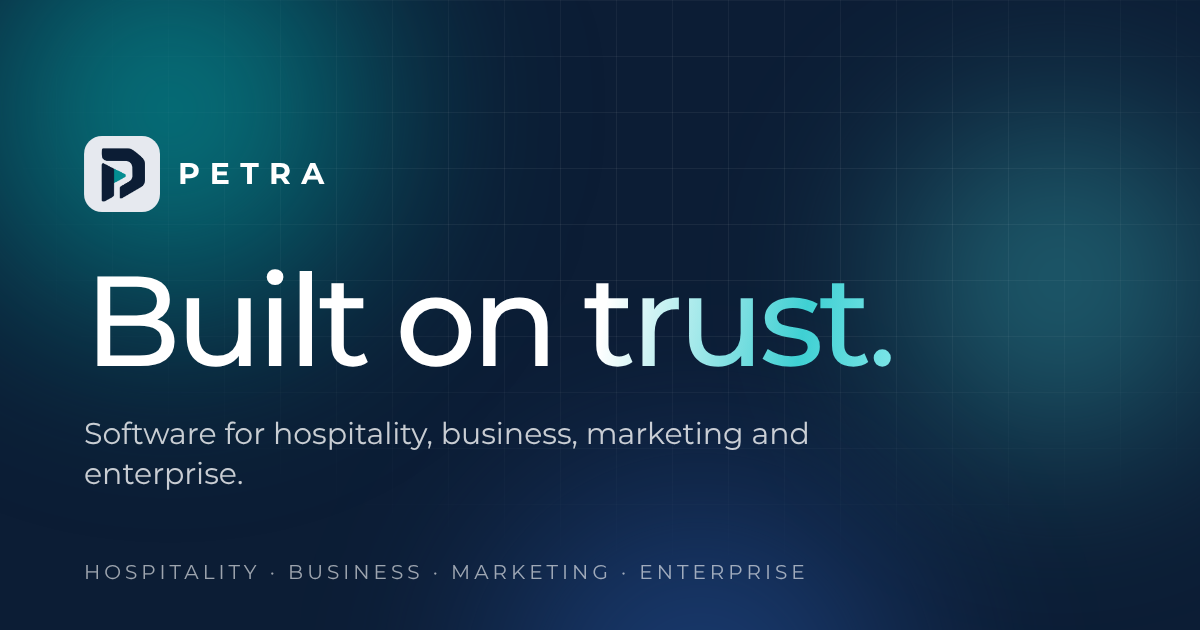
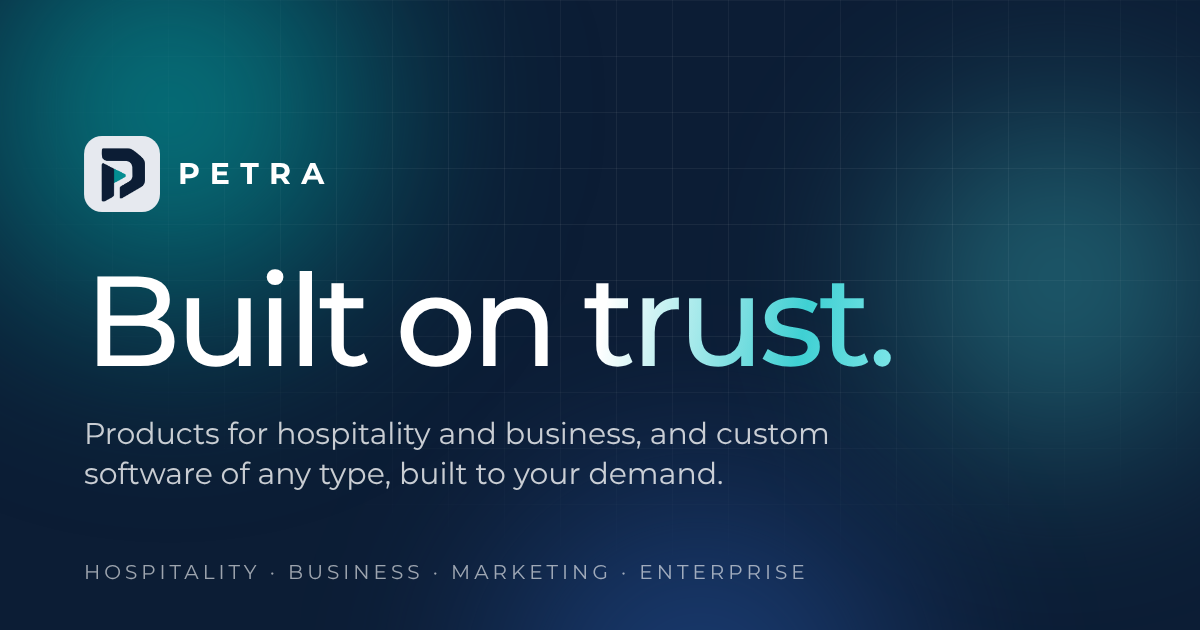
Position PETRA as building any software on demand; drop "Planned" everywhere
Add a "Custom software, any type" band, hero and footer copy, form option
and share image text for software built to client demand. Replace every
"Planned" label (Petra Core, its links, modules, deployment extras and
product features) with "Built on request"; the planned status is removed
and a test fails if the word comes back.

Claude-Session: https://claude.ai/code/session_01WUwowxCK4YvBFCuUnA97SB

Changed region(s): [[0.0617, 0.6635, 0.6783, 0.7841]]

diff --git a/src/content/company.ts b/src/content/company.ts
@@ -13,11 +13,11 @@ export const deployment = {
     { n: "03", title: "Petra products", items: ["PMS", "POS", "DMS"] },
   ],
   traits: [
-    { title: "Local network", text: "Terminals connect to the Petra server over the property LAN.", planned: false },
-    { title: "Fast local response", text: "Requests stay inside the building instead of crossing the internet to a remote data centre.", planned: false },
-    { title: "Centralised local data", text: "One database on the Petra server, stored on hardware you own.", planned: false },
-    { title: "Windows installer", text: "PetraPMS packaged as a Windows installer for on-site setup.", planned: true },
-    { title: "Larger deployments", text: "PostgreSQL for multi-property or cloud-hosted installations.", planned: true },
+    { title: "Local network", text: "Terminals connect to the Petra server over the property LAN.", onRequest: false },
+    { title: "Fast local response", text: "Requests stay inside the building instead of crossing the internet to a remote data centre.", onRequest: false },
+    { title: "Centralised local data", text: "One database on the Petra server, stored on hardware you own.", onRequest: false },
+    { title: "Windows installer", text: "PetraPMS packaged as a Windows installer for on-site setup.", onRequest: true },
+    { title: "Larger deployments", text: "PostgreSQL for multi-property or cloud-hosted installations.", onRequest: true },
   ],
   note: "The model above is PetraPMS's design. Deployment for PetraPOS and PetraDMS, backups and remote access are agreed per project during Discover.",
 } as const;
@@ -26,7 +26,7 @@ export const core = {
   name: "Petra Core",
   sub: "Shared data · sign-in · reports",
   role: "One data layer for all the products: shared customers and guests, one sign-in with roles, and reports across the business.",
-  status: "planned",
+  status: "onrequest",
 } as const;
 
 /** Modules PETRA builds for a client on request (in development now). Not off-the-shelf releases. */
@@ -91,9 +91,16 @@ export const layers = [
   },
 ] as const;
 
+/** The open door: PETRA builds any type of software to a client's requirement. */
+export const customBuild = {
+  title: "Custom software, any type",
+  line: "If you need it, we build it. Tell us the problem and we design, build, deploy and support the software for you.",
+  items: ["Any kind of software, to your requirement", "Scope and timeline agreed per project", "The same team designs, builds and supports it"],
+} as const;
+
 /** What "built on trust" means in practice. Only facts the company can stand behind. */
 export const trustPrinciples = [
-  { title: "Honest by default", text: "Every product, module and integration carries an honest status: available, preview, built on request or planned. We never show a feature as live before it is." },
+  { title: "Honest by default", text: "Every product, module and integration carries an honest status: available, preview or built on request. We never show something as live before it is." },
   { title: "Your data stays yours", text: "PetraPMS is designed to run on the property's own network, with its database on a server you control." },
   { title: "One accountable team", text: "The people who build the software also deploy and support it. No hand-offs, no ticket maze." },
   { title: "Support after go-live", text: "Staff training at handover, then three months of bug-fix support." },

diff --git a/tests/unit/content.test.ts b/tests/unit/content.test.ts
@@ -22,8 +22,8 @@ describe("honesty rules", () => {
     for (const p of load("products")) expect(p.status).not.toBe("available");
   });
 
-  it("every ecosystem link is planned (integrations do not ship yet)", () => {
-    for (const l of load("links")) expect(l.status).toBe("planned");
+  it("every ecosystem link is built on request (integrations do not ship yet)", () => {
+    for (const l of load("links")) expect(l.status).toBe("onrequest");
   });
 
   it("ids are unique within each collection", () => {
@@ -79,7 +79,7 @@ describe("ecosystem diagram data", () => {
   it("connects every product to the core, and nothing else is claimed as live", () => {
     const toCore = load("links").filter((l: { to: string }) => l.to === "core").map((l: { from: string }) => l.from);
     for (const code of productCodes) expect(toCore).toContain(code);
-    for (const l of load("links")) expect(l.status).toBe("planned");
+    for (const l of load("links")) expect(l.status).toBe("onrequest");
   });
   it("lists the eight modules built on request, none of them a current product name", () => {
     const names = [...modules.matchAll(/name: "(Petra\w+)", role:/g)].map((m) => m[1]);
@@ -87,5 +87,27 @@ describe("ecosystem diagram data", () => {
     expect([...modules.matchAll(/status: "onrequest" \}/g)].length).toBe(8);
     const productNames = load("products").map((p: { name: string }) => p.name);
     for (const n of names) expect(productNames).not.toContain(n);
+  });
+});
+
+describe("custom software positioning", () => {
+  const company = readFileSync("src/content/company.ts", "utf8");
+  it("states that any type of software is built on client demand", () => {
+    expect(company).toContain("export const customBuild");
+    expect(company).toContain("Any kind of software, to your requirement");
+  });
+  it("offers custom software as a form interest and keeps the sector list at four", () => {
+    expect(readFileSync("src/lib/inquiry.ts", "utf8")).toContain('"Custom software"');
+    const ids = [...company.matchAll(/^ {4}id: "(\w+)",$/gm)].map((m) => m[1]);
+    expect(ids).toHaveLength(5);
+  });
+});
+
+describe("status wording", () => {
+  it("never labels anything as planned", () => {
+    const files = ["src/content/company.ts", "src/content/schemas.ts", "src/components/ui/Chip.astro", "src/components/sections/Ecosystem.astro", "src/components/sections/Deployment.astro", "src/pages/ecosystem.astro", "src/pages/products/[slug].astro"];
+    for (const f of [...files, "src/content/data/links.json", "src/content/data/products.json", "src/content/data/reasons.json"]) {
+      expect(readFileSync(f, "utf8"), f).not.toMatch(/planned/i);
+    }
   });
 });

diff --git a/mockups/og.html b/mockups/og.html
@@ -9,5 +9,5 @@
 h1{margin-top:44px;font-size:128px;line-height:1;font-weight:500;letter-spacing:-.04em}h1 span{background:linear-gradient(100deg,#fff 10%,#3fd0d3 70%,#7fe6e8);-webkit-background-clip:text;color:transparent}
 p{margin-top:30px;font-size:30px;color:rgba(255,255,255,.78);max-width:860px;line-height:1.35}.t{position:absolute;left:84px;bottom:46px;font-size:20px;letter-spacing:.2em;color:rgba(255,255,255,.6);text-transform:uppercase}
 </style></head><body><div class="b b1"></div><div class="b b2"></div><div class="b b3"></div><div class="g"></div>
-<div class="c"><div class="brand"><img src="../public/brand/petra-mark.png" alt=""><b>PETRA</b></div><h1>Built on <span>trust.</span></h1><p>Software for hospitality, business, marketing and enterprise.</p></div>
+<div class="c"><div class="brand"><img src="../public/brand/petra-mark.png" alt=""><b>PETRA</b></div><h1>Built on <span>trust.</span></h1><p>Products for hospitality and business, and custom software of any type, built to your demand.</p></div>
 <div class="t">Hospitality · Business · Marketing · Enterprise</div></body></html>

diff --git a/src/content/schemas.ts b/src/content/schemas.ts
@@ -4,7 +4,7 @@ import { z } from "astro/zod";
  * Release status. Drives every status chip. Keep it honest.
  * onrequest: built for a client when they need it (and in development now); not an off-the-shelf release.
  */
-export const status = z.enum(["available", "preview", "planned", "onrequest"]);
+export const status = z.enum(["available", "preview", "onrequest"]);
 export type Status = z.infer<typeof status>;
 
 export const screenSource = z.enum(["illustrative", "prototype", "live"]);
@@ -19,7 +19,7 @@ export const productSchema = z.object({
   statusNote: z.string(),
   problem: z.string(),
   description: z.string(),
-  features: z.array(z.object({ title: z.string(), planned: z.boolean().default(false) })),
+  features: z.array(z.object({ title: z.string(), onRequest: z.boolean().default(false) })),
   workflow: z.array(z.string()),
   screenSource,
   /** Files in src/assets/products are named `<assetPrefix>-<view>-desktop.webp` and `-mobile.webp`. */

diff --git a/src/content/site.ts b/src/content/site.ts
@@ -4,7 +4,7 @@ export const site = {
   legalName: "PETRA Software Solutions",
   tagline: "Built on trust.",
   description:
-    "PETRA Software Solutions builds software for hospitality, business, marketing and enterprise in Bangladesh: PetraPMS, PetraPOS, PetraDMS, website and online store builds. Built on trust.",
+    "PETRA Software Solutions builds software in Bangladesh: products for hospitality and business, and custom software of any type built to client demand. Built on trust.",
   email: "petrabd@gmail.com",
   phone: "016-16154320",
   phoneHref: "+8801616154320",

diff --git a/src/lib/inquiry.ts b/src/lib/inquiry.ts
@@ -10,7 +10,7 @@ export const businessTypes = [
   "Something else",
 ] as const;
 
-export const interestOptions = ["PetraPMS", "PetraPOS", "PetraDMS", "Website Build", "E-commerce Build", "Marketing", "Enterprise / custom", "Not sure yet"] as const;
+export const interestOptions = ["PetraPMS", "PetraPOS", "PetraDMS", "Website Build", "E-commerce Build", "Marketing", "Custom software", "Not sure yet"] as const;
 
 export const limits = { name: 120, company: 160, email: 200, phone: 40, message: 4000 } as const;
 

diff --git a/README.md b/README.md
@@ -21,7 +21,7 @@ Node.js 20.9 or newer.
 | What | File |
 |---|---|
 | Company name, email, phone, Facebook link | `src/content/site.ts` |
-| Products, features, status (`preview`, `planned`, `available`) | `src/content/data/products.json` |
+| Products, features, status (`preview`, `onrequest`, `available`) | `src/content/data/products.json` |
 | Ecosystem links, industries, reasons, process steps | `src/content/data/*.json` |
 | Sectors (Hospitality, Business, Marketing, Enterprise), trust principles, deployment text | `src/content/company.ts` |
 | Colours and fonts | `src/styles/global.css` (`@theme`) |
@@ -30,7 +30,7 @@ Node.js 20.9 or newer.
 Brand colours come from the logo: navy `#0c1d35`, teal `#038d91`, tint `#e6e9ef`.
 
 ## Honesty rules (enforced by tests)
-Every product, module and integration carries a status: `available`, `preview`, `onrequest` (built for a client when needed) or `planned`. No product may be marked `available`, every ecosystem link must be `planned`, and every module must be `onrequest`, until a release really ships (`tests/unit/content.test.ts`). Change them only when that is true.
+Every product, module and connection carries a status: `available`, `preview` or `onrequest` (built for a client when needed, and in development now). No product may be marked `available`, and every connection and module must be `onrequest`, until a release really ships (`tests/unit/content.test.ts`). Nothing is labelled "planned". Change a status only when it is true.
 
 ## Images
 - `src/assets/products/*.webp`: sample interface screenshots (desktop 1440x900 and iPhone 16 393x852). Regenerate with `python3 scripts/capture.py` from the HTML in `mockups/` (needs `pip install playwright pillow`).
